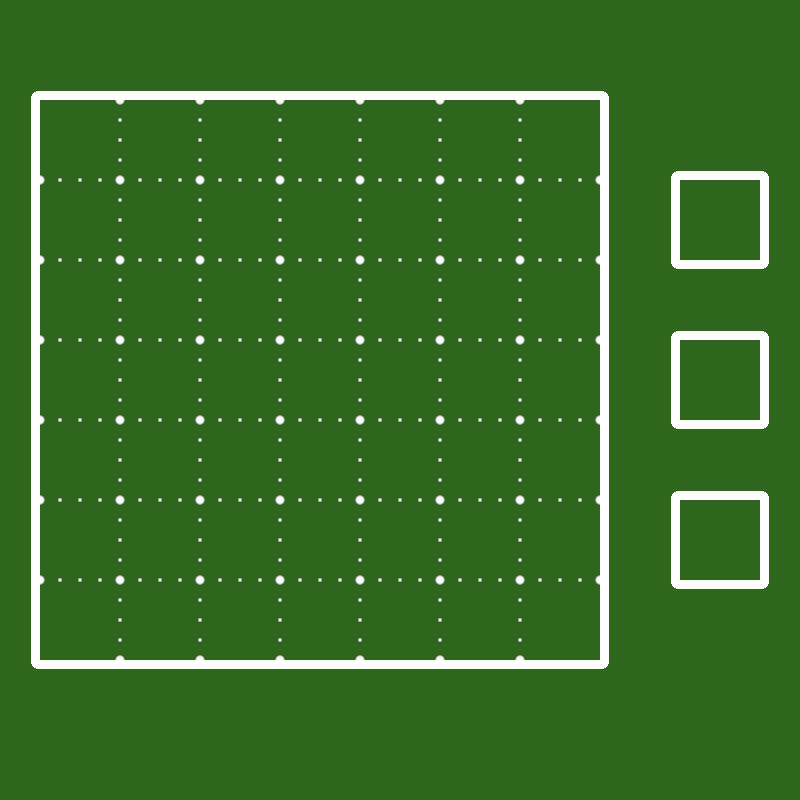
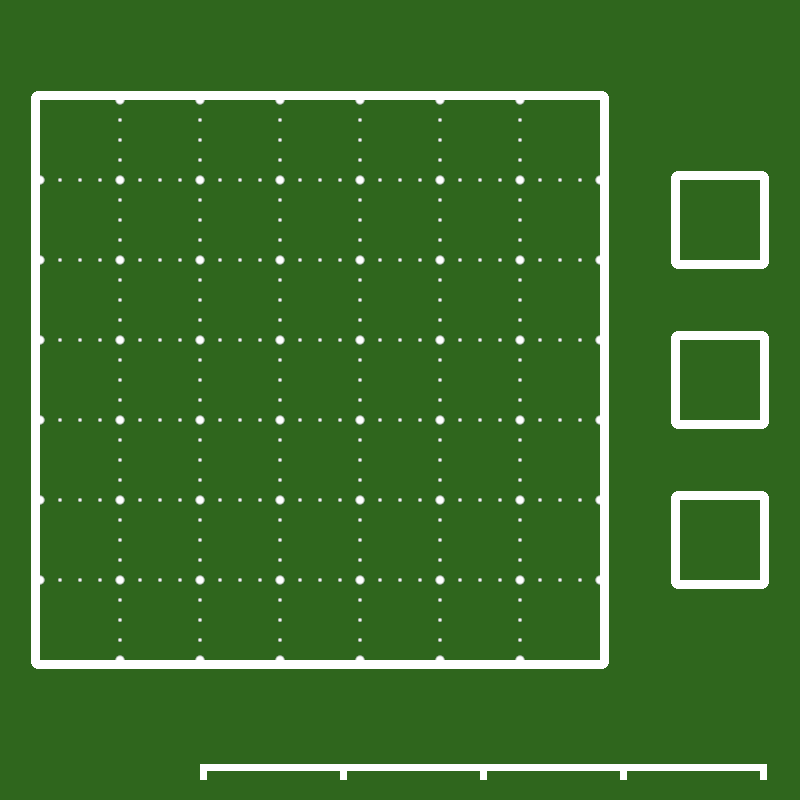
achievements

Changed region(s): [[0.25, 0.9375, 0.9688, 0.9688]]

diff --git a/achievements.go b/achievements.go
@@ -23,40 +23,98 @@ import (
 )
 
 type achievement struct {
-	obtained         bool
-	displayed        bool
-	displayTime      int
-	condition        func(playArea) bool
-	frenchText       string
-	englishText      string
-	number           int
-	screenX, screenY int
+	obtained    bool
+	displayed   bool
+	displayTime int
+	condition   func(playArea) bool
+	frenchText  string
+	englishText string
+	number      int
+	//screenX, screenY int
 }
 
 type achievementSet = []achievement
 
 // build the actual achievements
 func makeAchievementSet() achievementSet {
-	return achievementSet{
+	theSet := achievementSet{
 		achievement{
 			frenchText:  "Quelques policiers",
 			englishText: "A few cops",
 			condition: func(p playArea) bool {
 				return p.maxCopsSize >= 2
 			},
-			number:  1,
-			screenX: 20, screenY: 20,
+		},
+		achievement{
+			frenchText:  "Un peu chaud",
+			englishText: "Dangerous protest",
+			condition: func(p playArea) bool {
+				return p.maxCopsSize >= globalNumCops/2
+			},
+		},
+		achievement{
+			frenchText:  "C'est foutu",
+			englishText: "This is the end",
+			condition: func(p playArea) bool {
+				return p.maxCopsSize >= 3*globalNumCops/4
+			},
 		},
 		achievement{
 			frenchText:  "Un début de mobilisation",
-			englishText: "The birth of a demonstration",
+			englishText: "Birth of a demonstration",
 			condition: func(p playArea) bool {
 				return p.demonstrationSize > 4
 			},
-			number:  2,
-			screenX: 20, screenY: 40,
+		},
+		achievement{
+			frenchText:  "On va y arriver",
+			englishText: "Almost there!",
+			condition: func(p playArea) bool {
+				return p.demonstrationSize >= globalNumPeople/2
+			},
+		},
+		achievement{
+			frenchText:  "Cette fois c'est la bonne",
+			englishText: "We will do it!",
+			condition: func(p playArea) bool {
+				return p.demonstrationSize >= globalNumPeople+4
+			},
+		},
+		achievement{
+			frenchText:  "Assignés à résidence",
+			englishText: "No protest here!",
+			condition: func(p playArea) bool {
+				return p.demonstrationSize <= 4 && !p.handHasTile[0] && !p.handHasTile[1] && !p.handHasTile[2] && !p.holdTile
+			},
+		},
+		achievement{
+			frenchText:  "La police avec nous",
+			englishText: "No cops here!",
+			condition: func(p playArea) bool {
+				return p.maxCopsSize <= 4 && !p.handHasTile[0] && !p.handHasTile[1] && !p.handHasTile[2] && !p.holdTile
+			},
+		},
+		achievement{
+			frenchText:  "Trop de policiers",
+			englishText: "Too many cops",
+			condition: func(p playArea) bool {
+				return p.maxCopsSize > p.demonstrationSize
+			},
+		},
+		achievement{
+			frenchText:  "Beaucoup prop de policiers",
+			englishText: "Far too many cops",
+			condition: func(p playArea) bool {
+				return p.maxCopsSize > p.demonstrationSize && !p.handHasTile[0] && !p.handHasTile[1] && !p.handHasTile[2] && !p.holdTile
+			},
 		},
 	}
+
+	for pos := range theSet {
+		theSet[pos].number = pos
+	}
+
+	return theSet
 }
 
 // check if some achievements are validated by the current playArea
@@ -101,6 +159,9 @@ func (g game) liveDisplayDrawAchievements(screen *ebiten.Image) {
 // display achievements screen
 func (g game) drawAchievementsScreen(screen *ebiten.Image) {
 
+	x := 20
+	y := 20
+	yStep := 20
 	for _, achievement := range g.achievements {
 		text := achievement.frenchText
 		if language == englishLanguage {
@@ -109,7 +170,8 @@ func (g game) drawAchievementsScreen(screen *ebiten.Image) {
 		if achievement.obtained {
 			text += " (Ok)"
 		}
-		ebitenutil.DebugPrintAt(screen, text, achievement.screenX, achievement.screenY)
+		ebitenutil.DebugPrintAt(screen, text, x, y)
+		y += yStep
 	}
 
 }

diff --git a/score.go b/score.go
@@ -42,14 +42,17 @@ func (s *score) update(timePoints, demonstrationPoints, copsPoints int) (demonst
 	s.fromDemonstration = demonstrationPoints
 	s.fromCops = copsPoints
 
-	oldScore := s.current
+	//oldScore := s.current
 	s.current = s.fromTime + s.fromDemonstration - s.fromCops
-	if s.current < 0 {
-		s.current = 0
-		if oldScore == 0 {
-			return 0, copsDecrement
+
+	/*
+		if s.current < 0 {
+			s.current = 0
+			if oldScore == 0 {
+				return 0, copsDecrement
+			}
 		}
-	}
+	*/
 
 	return
 }
@@ -71,8 +74,15 @@ func (s *score) setMax() {
 
 // draw the score
 func (s score) drawCurrentAt(screen *ebiten.Image, scoreX, scoreY int) {
-	theScore := fmt.Sprintf("Score: %d", s.current)
-	ebitenutil.DebugPrintAt(screen, theScore, scoreX, scoreY)
+	prefix := "Score :"
+	if language == englishLanguage {
+		prefix = "Score:"
+	}
+	theScore := fmt.Sprintf("%s %d", prefix, s.current)
+	if s.current < 0 {
+		theScore = fmt.Sprintf("%s 0 (%d)", prefix, s.current)
+	}
+	drawTextAt(theScore, float64(scoreX), float64(scoreY), screen)
 }
 
 func (s score) drawMaxAt(screen *ebiten.Image, scoreX, scoreY int) {
@@ -95,5 +105,9 @@ func getCopsPoints(copsSize int) int {
 
 // get time points from the remaining time
 func getTimePoints(remainingTime int) int {
-	return (remainingTime * 20) / globalAllowedTime
+	baseScore := ((remainingTime * 4) / globalAllowedTime) * 50
+	if remainingTime > 0 {
+		baseScore += 50
+	}
+	return baseScore
 }

diff --git a/global.go b/global.go
@@ -35,19 +35,20 @@ const (
 	// deck characteristics
 	globalDeckSize = globalGridWidth*globalGridHeight - 1
 	// tile set characteristics
-	globalNumCops   = 100
-	globalNumPeople = 150
+	globalNumCops   = 80
+	globalNumPeople = 100
 	globalNumNature = 0
-	globalNumTiles  = 70
+	globalNumTiles  = 48
 	// score characteristics
 	globalPlayScoreX = globalGridX
-	globalPlayScoreY = globalGridY + globalGridHeight*globalTileSize + 40 + globalTimeHeight
+	globalPlayScoreY = 50
 	// time characteristics
 	globalAllowedTime = 180
 	globalTimeX       = globalGridX
-	globalTimeY       = globalGridY + globalGridHeight*globalTileSize + 20
+	globalTimeY       = 724
 	globalTimeHeight  = 40
-	globalTimeWidth   = globalGridWidth * globalTileSize
+	globalTimeWidth   = 567
+	globalTimeBarX    = 200
 	// achievements characteristics
 	globalLiveDisplayTimeAchievement  = 120
 	globalLiveDisplayAchievementsX    = globalHandX

diff --git a/time.go b/time.go
@@ -18,6 +18,7 @@
 package main
 
 import (
+	"fmt"
 	"image/color"
 
 	"github.com/hajimehoshi/ebiten/v2"
@@ -39,6 +40,16 @@ func (t *timeHandler) update() {
 }
 
 func (t timeHandler) draw(screen *ebiten.Image) {
+
+	points := getTimePoints(t.currentTime)
+	prefix := "Bonus :"
+	if language == englishLanguage {
+		prefix = "Bonus:"
+	}
+	text := fmt.Sprintf("%s %d", prefix, points)
+
+	drawTextAt(text, float64(globalTimeX), float64(globalTimeY+5), screen)
+
 	timeWidth := (globalTimeWidth * t.currentTime) / globalAllowedTime
-	vector.DrawFilledRect(screen, float32(globalTimeX), float32(globalTimeY), float32(timeWidth), float32(globalTimeHeight), color.White, false)
+	vector.DrawFilledRect(screen, float32(globalTimeBarX), float32(globalTimeY), float32(timeWidth), float32(globalTimeHeight), color.White, false)
 }

diff --git a/update.go b/update.go
@@ -122,5 +122,8 @@ func (g *game) updatePlay(mouseX, mouseY int) (finished bool) {
 
 	// check end of game
 	finished = g.playArea.checkEndOfPlay()
+	if finished {
+		g.checkAchievements()
+	}
 	return
 }
